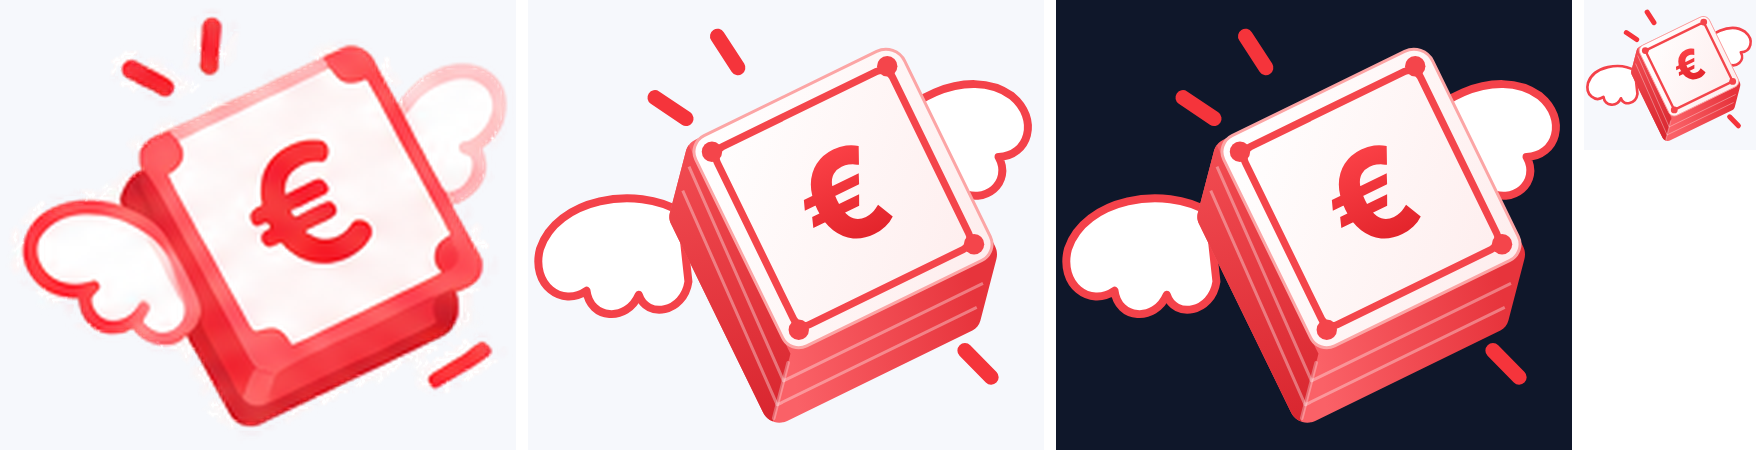
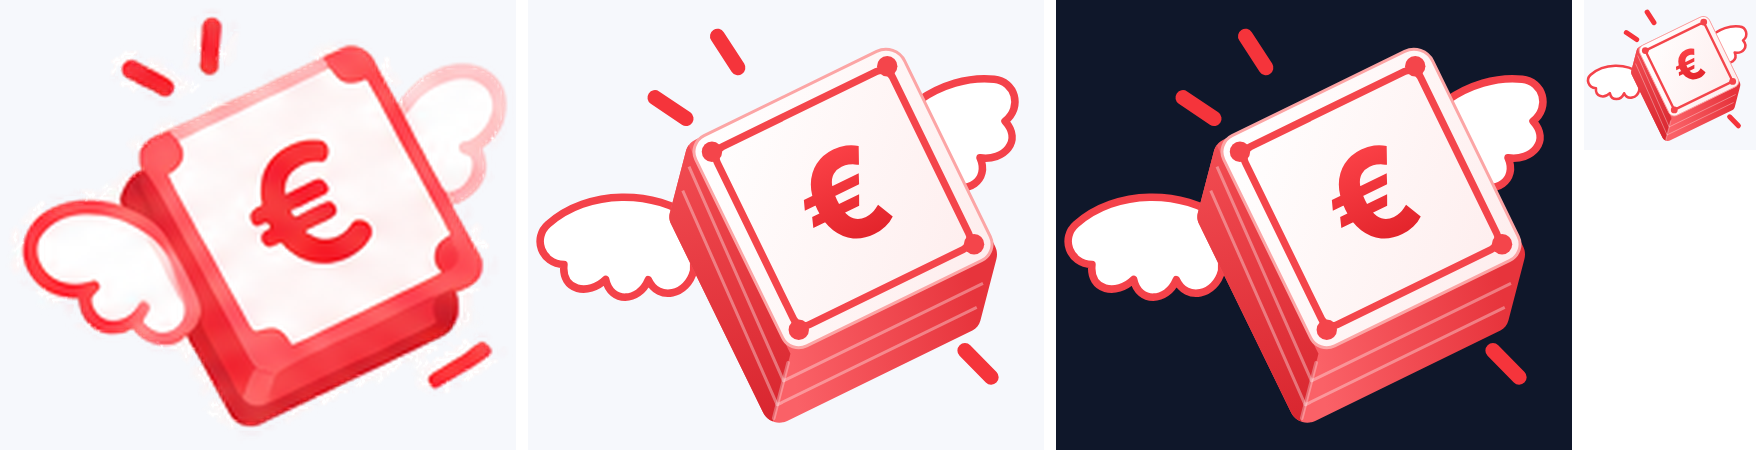
Kit rosso: 9 illustrazioni ridisegnate pulite (generatori rosso_*, oggetti_c.py)
Claude-Session: https://claude.ai/code/session_012XYGKXme8yqkj3YP8trxoj

diff --git a/OfaEnglish/strumenti/brand/illustrazioni/accesso_bloccato.py b/OfaEnglish/strumenti/brand/illustrazioni/accesso_bloccato.py
@@ -1,0 +1,125 @@
+"""
+Accesso bloccato: finestra del browser con il profilo dello studente (tocco e toga) e l'orologio
+dell'attesa.
+
+    python3 strumenti/brand/illustrazioni/accesso_bloccato.py
+
+Difetti dell'originale corretti: finestra storta (il bordo di sopra sale verso destra, il lato
+destro è doppio), tocco asimmetrico con la punta sinistra più bassa, capelli a macchie, segni
+scuri a caso sulla toga, anello dell'orologio di spessore variabile con una tacca nella parte
+rossa, lancette non centrate, frange bianche. Qui: finestra dritta con raccordi veri, barra del
+titolo e tre pallini uguali; studente costruito sull'asse ASSE (tocco a rombo simmetrico con
+spessore, nappa appesa al bottone, capelli come fascia regolare, viso con il mento tondo, toga a
+spalle raccordate tagliata dal bordo della finestra); orologio con anello a spessore costante
+(metà blu, metà rossa), lancette dal centro, bordo bianco che lo stacca dalla finestra.
+"""
+from __future__ import annotations
+
+import pathlib
+import sys
+
+QUI = pathlib.Path(__file__).resolve().parent
+sys.path.insert(0, str(QUI)); sys.path.insert(0, str(QUI.parent))
+from geometria import V, arrotondato, lineare, n, p, sfocatura  # noqa: E402
+from oggetti_a import nuvola, ombra, rettangolo, svg  # noqa: E402
+
+BRAND = QUI.parents[2] / "brand"
+
+KIT = {
+    "kit-blu": {
+        "tela": (169, 112), "nuvola": "#F3F7FE", "ombra": "#1D4ED8",
+        "nuvola_forme": [(102.4, 48.5, 44.8, 43), (49.5, 60.2, 49, 51.3), (113.7, 76.8, 54.8, 34.7)],
+        "finestra": (18, 14, 112, 100), "raggio": 9, "barra": 19, "bordo": "#DCE6FA",
+        "barra_colori": ("#5089EC", "#3A70CC"), "pallini": ["#FDF1E0", "#F8C9C1", "#BFD6C3"],
+        "asse": 68,
+        "toga": ("#5A8FEC", "#4279DE"), "colletto": "#1D4F96",
+        "pelle": ("#FACAC1", "#F3B0A4"), "pelle_scura": "#EBA597", "capelli": "#1D395B",
+        "tocco": ("#5E91E8", "#3F75D6"), "tocco_fianco": "#2B5CB4", "calotta": "#1F4F98",
+        "nappa": ("#7B8DB0", "#FDBC49"),
+        "orologio": {"centro": V(129, 80), "raggio": 19.2, "spessore": 4.4, "colori": ("#3D6FD6", "#F25558"),
+                     "lancette": "#1E3A64", "ore": V(0, -11.5), "minuti": V(7.2, 7.4)},
+    },
+}
+
+
+def studente(k: dict) -> tuple[list[str], str]:
+    A = k["asse"]
+    defs = [lineare("toga-luce", V(A - 23, 78), V(A + 23, 100), [(0, k["toga"][0]), (1, k["toga"][1])]),
+            lineare("pelle-luce", V(A - 9, 60), V(A + 9, 79), [(0, k["pelle"][0]), (1, k["pelle"][1])]),
+            lineare("tocco-luce", V(A - 22, 39), V(A + 22, 55), [(0, k["tocco"][0]), (1, k["tocco"][1])])]
+    x0, y0, x1, y1 = k["finestra"]
+    top = y0 + k["barra"]
+    defs.append(f'<clipPath id="finestra-contenuto"><path d="{arrotondato([V(x0 + 0.6, top), V(x1 - 0.6, top), V(x1 - 0.6, y1 - 0.6), V(x0 + 0.6, y1 - 0.6)], [0, 0, k["raggio"] - 0.6, k["raggio"] - 0.6])}"/></clipPath>')
+    g = []
+    # toga: spalle raccordate, tagliata dal fondo della finestra
+    toga = arrotondato([V(A - 25, 104), V(A - 22, 78.5), V(A + 22, 78.5), V(A + 25, 104)], [0, 13, 13, 0])
+    colletto = arrotondato([V(A - 7, 77), V(A + 7, 77), V(A, 87.5)], [1.5, 1.5, 2])
+    g.append(f'<g id="toga" clip-path="url(#finestra-contenuto)">'
+             f'<path id="toga-corpo" d="{toga}" fill="url(#toga-luce)"/>'
+             f'<path id="toga-riflesso" d="M{n(A - 18)} 86 C{n(A - 17)} 83 {n(A - 14)} 81.5 {n(A - 11)} 81" stroke="#FFFFFF" stroke-opacity="0.3" stroke-width="1.8" stroke-linecap="round" fill="none"/>'
+             f'<path id="toga-collo" d="{rettangolo(A - 4, 73, 8, 8, 1.5)}" fill="{k["pelle_scura"]}"/>'
+             f'<path id="toga-colletto" d="{colletto}" fill="{k["colletto"]}"/>'
+             f'<path id="toga-abbottonatura" d="M{n(A)} 88 V104" stroke="{k["colletto"]}" stroke-width="1.3" stroke-linecap="round"/></g>')
+    # testa: capelli (fascia sotto il tocco), orecchie, viso con il mento tondo
+    g.append(f'<g id="testa">'
+             f'<path id="capelli" d="{rettangolo(A - 12, 54, 24, 13.5, [3, 3, 4, 4])}" fill="{k["capelli"]}"/>'
+             f'<circle id="orecchio-sinistro" cx="{n(A - 10)}" cy="69.5" r="2.4" fill="{k["pelle_scura"]}"/>'
+             f'<circle id="orecchio-destro" cx="{n(A + 10)}" cy="69.5" r="2.4" fill="{k["pelle_scura"]}"/>'
+             f'<path id="viso" d="{rettangolo(A - 9.5, 59.5, 19, 19.5, [4, 4, 9, 9])}" fill="url(#pelle-luce)"/>'
+             f'<path id="frangia" d="{arrotondato([V(A - 10, 58), V(A + 10, 58), V(A + 10, 61.5), V(A - 10, 61.5)], [0, 0, 1.75, 1.75])}" fill="{k["capelli"]}"/></g>')
+    # tocco: calotta, tavola a rombo simmetrica con lo spessore, bottone, nappa
+    rombo = [V(A, 38.5), V(A + 23, 47), V(A, 55.5), V(A - 23, 47)]
+    fianco = [q + V(0, 2.2) for q in rombo]
+    g.append(f'<g id="tocco">'
+             f'<path id="tocco-calotta" d="{arrotondato([V(A - 12.5, 49), V(A + 12.5, 49), V(A + 12, 59), V(A - 12, 59)], [0, 0, 2, 2])}" fill="{k["calotta"]}"/>'
+             f'<path id="tocco-fianco" d="{arrotondato(fianco, [2, 2.5, 2, 2.5])}" fill="{k["tocco_fianco"]}"/>'
+             f'<path id="tocco-tavola" d="{arrotondato(rombo, [2, 2.5, 2, 2.5])}" fill="url(#tocco-luce)"/>'
+             f'<path id="tocco-riflesso" d="M{p(V(A - 16, 46))} L{p(V(A - 2, 41))}" stroke="#FFFFFF" stroke-opacity="0.3" stroke-width="1.6" stroke-linecap="round"/>'
+             f'<g id="nappa"><path id="nappa-cordone" d="M{n(A)} 47 L{n(A + 18)} 48.6 V56" stroke="{k["nappa"][0]}" stroke-width="1.1" stroke-linecap="round" stroke-linejoin="round" fill="none"/>'
+             f'<path id="nappa-fiocco" d="{rettangolo(A + 16.2, 55.5, 3.6, 8, [1.2, 1.2, 1.8, 1.8])}" fill="{k["nappa"][1]}"/></g>'
+             f'<circle id="tocco-bottone" cx="{n(A)}" cy="47" r="1.5" fill="{k["tocco_fianco"]}"/></g>')
+    return defs, '<g id="studente">' + "".join(g) + "</g>"
+
+
+def orologio(k: dict) -> tuple[list[str], str]:
+    o = k["orologio"]
+    c, R, s = o["centro"], o["raggio"], o["spessore"]
+    blu, rosso = o["colori"]
+    su, giu = c + V(0, -R), c + V(0, R)
+    g = [ombra("orologio-ombra", c.x + 1, c.y + R + 1.5, R * 0.8, 3, "#1E3A64", 0.18),
+         f'<circle id="orologio-bordo" cx="{n(c.x)}" cy="{n(c.y)}" r="{n(R + s / 2 + 2.4)}" fill="#FFFFFF"/>',
+         f'<circle id="orologio-quadrante" cx="{n(c.x)}" cy="{n(c.y)}" r="{n(R)}" fill="#FFFFFF"/>',
+         f'<path id="orologio-anello-blu" d="M{p(giu)} A{n(R)} {n(R)} 0 0 1 {p(su)}" stroke="{blu}" stroke-width="{n(s)}" fill="none"/>',
+         f'<path id="orologio-anello-rosso" d="M{p(su)} A{n(R)} {n(R)} 0 0 1 {p(giu)}" stroke="{rosso}" stroke-width="{n(s)}" fill="none"/>',
+         f'<g id="lancette" stroke="{o["lancette"]}" stroke-width="3" stroke-linecap="round">'
+         f'<path id="lancetta-ore" d="M{p(c)} L{p(c + o["ore"])}"/><path id="lancetta-minuti" d="M{p(c)} L{p(c + o["minuti"])}"/></g>',
+         f'<circle id="orologio-perno" cx="{n(c.x)}" cy="{n(c.y)}" r="2.2" fill="{o["lancette"]}"/>']
+    return [], '<g id="orologio">' + "".join(g) + "</g>"
+
+
+def scena(k: dict) -> str:
+    W, H = k["tela"]
+    x0, y0, x1, y1 = k["finestra"]
+    R, B = k["raggio"], k["barra"]
+    defs = [sfocatura("sfuma-ombra", 2.5, W, H),
+            lineare("barra-luce", V(x0, y0), V(x1, y0 + B), [(0, k["barra_colori"][0]), (1, k["barra_colori"][1])])]
+    corpo = [nuvola(k["nuvola_forme"], k["nuvola"])]
+    barra = arrotondato([V(x0, y0), V(x1, y0), V(x1, y0 + B), V(x0, y0 + B)], [R, R, 0, 0])
+    pallini = "".join(f'<circle id="pallino-{i + 1}" cx="{n(x0 + 9 + i * 8.5)}" cy="{n(y0 + B / 2 + 0.5)}" r="2.7" fill="{c}"/>'
+                      for i, c in enumerate(k["pallini"]))
+    corpo.append(f'<g id="finestra">'
+                 f'<path id="finestra-ombra" d="{rettangolo(x0 + 4, y0 + 7, x1 - x0 - 8, y1 - y0 - 5, R)}" fill="{k["ombra"]}" opacity="0.13" filter="url(#sfuma-ombra)"/>'
+                 f'<path id="finestra-foglio" d="{rettangolo(x0, y0, x1 - x0, y1 - y0, R)}" fill="#FFFFFF" stroke="{k["bordo"]}" stroke-width="1.2"/>'
+                 f'<path id="finestra-barra" d="{barra}" fill="url(#barra-luce)"/>'
+                 f'<path id="finestra-riflesso" d="M{n(x0 + 36)} {n(y0 + 3.4)} H{n(x1 - 9)}" stroke="#FFFFFF" stroke-opacity="0.3" stroke-width="1.6" stroke-linecap="round"/>'
+                 f'<g id="pallini">{pallini}</g></g>')
+    d, c = studente(k); defs += d; corpo.append(c)
+    d, c = orologio(k); defs += d; corpo.append(c)
+    return svg("Accesso bloccato", W, H, defs, corpo)
+
+
+if __name__ == "__main__":
+    for kit, k in KIT.items():
+        f = BRAND / "disegni" / kit / "illustrazioni" / "accesso-bloccato.svg"
+        f.write_text(scena(k))
+        print(f)

diff --git a/OfaEnglish/strumenti/brand/illustrazioni/rosso_rischio_economico.py b/OfaEnglish/strumenti/brand/illustrazioni/rosso_rischio_economico.py
@@ -34,7 +34,7 @@ C = {"faccia": ("#FFFFFF", "#FEEDED"), "bordo": "#F4454B", "orlo": "#FCA5A5",
 CENTRO, ROTAZIONE = V(105, 66), -26          # centro della faccia di sopra, rotazione in gradi
 MEZZI = (38.5, 39)                             # mezza larghezza e mezza altezza della banconota
 SPESSORE = V(-6.5, 25)                        # estrusione della mazzetta (verso il basso, un po' a sinistra)
-ALI = {"centro": V(87, 71), "asse": -18, "distanza": 62, "scala": 0.95}
+ALI = {"centro": V(88, 72), "asse": -18, "distanza": 59, "scala": 0.9}
 TRATTINI = {"distanza": 67, "lunghezza": 12.5, "angoli": [214, 237, 45.5]}   # angoli sullo schermo (y in giù)
 
 u = V(math.cos(math.radians(ROTAZIONE)), math.sin(math.radians(ROTAZIONE)))
@@ -49,10 +49,11 @@ def punto(x: float, y: float) -> V:
 def ala(nome: str, lato: int) -> str:
     """Ala a tre piume, disegnata per la sinistra (si allunga verso -x) e specchiata per la destra.
     La radice (x = 0) sta dietro la mazzetta."""
-    d = ("M4 -12 C-8 -26 -36 -30 -47 -15 "
-         "C-54 -4 -46 7 -36 4 "
-         "C-38 14 -26 19 -19 11 "
-         "C-19 20 -6 22 -1 12 Z")
+    d = ("M4 -10 C-6 -25 -30 -33 -48 -25 "        # bordo di sopra, che sale verso la punta
+         "C-55 -22 -55 -12 -47 -9 "                 # punta tonda
+         "C-51 0 -42 5 -34 1 "                      # piuma lunga
+         "C-35 10 -25 13 -19 6 "                    # piuma media
+         "C-18 15 -7 16 -2 8 Z")                    # piuma corta, verso la radice
     a = ALI
     w = V(math.cos(math.radians(a["asse"])), math.sin(math.radians(a["asse"])))
     radice = a["centro"] + w * (lato * (a["distanza"] - 24))
